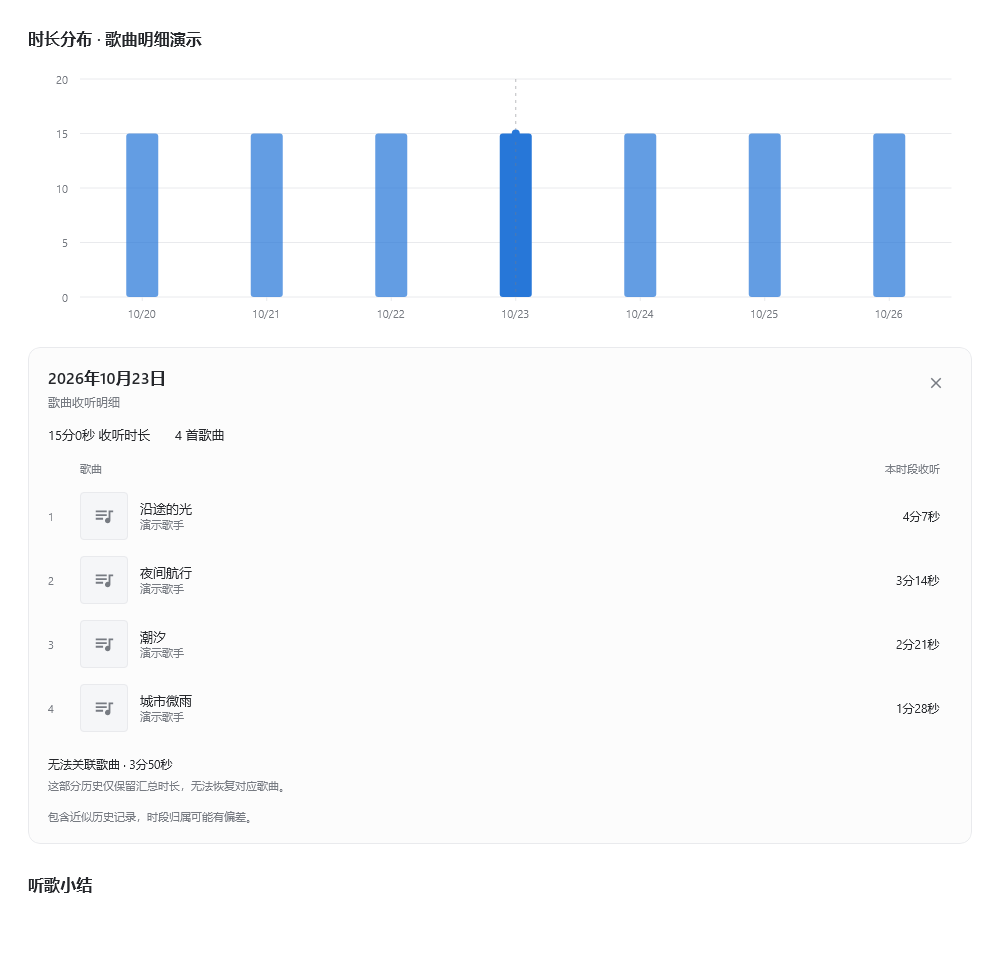
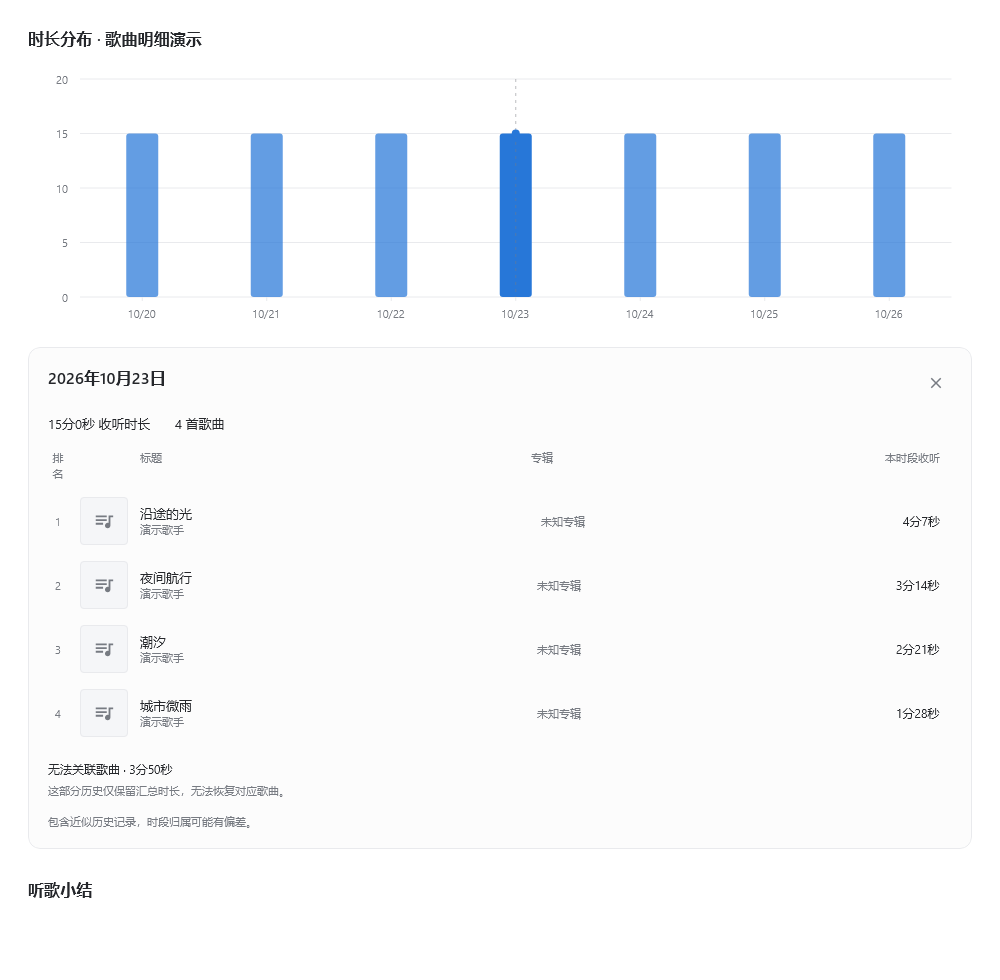
Align detail headers and hourly chart endpoints

diff --git a/plugin/src/main/kotlin/com/jethuit/spw/listenstats/ui/ListeningDetailsPanel.kt b/plugin/src/main/kotlin/com/jethuit/spw/listenstats/ui/ListeningDetailsPanel.kt
@@ -86,11 +86,13 @@ fun ListeningDetailsPanel(bucket: ChartBucket, details: ListeningDetails?, visib
                 current.rows.isNotEmpty() -> {
                     Row(Modifier.fillMaxWidth().padding(bottom = 8.dp, end = 12.dp),
                         horizontalArrangement = Arrangement.spacedBy(12.dp)) {
-                        Spacer(Modifier.width(20.dp))
+                        Text("排名", Modifier.width(20.dp), textAlign = androidx.compose.ui.text.style.TextAlign.Center,
+                            style = AppType.tiny.copy(color = colors.muted))
                         Spacer(Modifier.width(48.dp))
                         Text("标题", Modifier.weight(1f), style = AppType.tiny.copy(color = colors.muted))
                         Text("专辑", Modifier.weight(0.9f), style = AppType.tiny.copy(color = colors.muted))
-                        Text("本时段收听", style = AppType.tiny.copy(color = colors.muted))
+                        Text("本时段收听", textAlign = androidx.compose.ui.text.style.TextAlign.End,
+                            style = AppType.tiny.copy(color = colors.muted))
                     }
                     key(shown.start, shown.end, shown.hour) {
                         val scroll = rememberLazyListState()
@@ -99,7 +101,9 @@ fun ListeningDetailsPanel(bucket: ChartBucket, details: ListeningDetails?, visib
                                 itemsIndexed(current.rows, key = { _, row -> row.track.id }) { index, row ->
                                     Row(Modifier.fillMaxWidth().height(64.dp), verticalAlignment = Alignment.CenterVertically,
                                         horizontalArrangement = Arrangement.spacedBy(12.dp)) {
-                                        Text("${index + 1}", Modifier.width(20.dp), style = AppType.tiny.copy(color = colors.muted))
+                                        Text("${index + 1}", Modifier.width(20.dp),
+                                            textAlign = androidx.compose.ui.text.style.TextAlign.Center,
+                                            style = AppType.tiny.copy(color = colors.muted))
                                         Cover(row.track.id)
                                         Column(Modifier.weight(1f)) {
                                             Text(row.track.title, maxLines = 1, overflow = TextOverflow.Ellipsis,

diff --git a/plugin/src/main/kotlin/com/jethuit/spw/listenstats/ui/TrendChart.kt b/plugin/src/main/kotlin/com/jethuit/spw/listenstats/ui/TrendChart.kt
@@ -97,7 +97,11 @@ fun TrendChart(
         val plotWidth = (widthPx - AXIS_LEFT - AXIS_RIGHT).coerceAtLeast(1f)
         val plotHeight = (heightPx - AXIS_TOP - AXIS_BOTTOM).coerceAtLeast(1f)
         val slot = if (buckets.isEmpty()) plotWidth else plotWidth / buckets.size
-        val banded = hourly || chartType == ChartType.Bar
+        // Bars represent intervals and stay centered in their slots. Lines and
+        // curves use their actual sample positions, so hourly 00:00 and 23:00
+        // land on the plot edges just like the daily chart's first and last
+        // points.
+        val banded = chartType == ChartType.Bar
         val tickCount = 4
 
         fun xAt(index: Int): Float {

diff --git a/tools/build_plugin.py b/tools/build_plugin.py
@@ -27,7 +27,7 @@ TOOLS = BUILD / 'tools'
 PLUGIN_SRC = ROOT / 'plugin' / 'src' / 'main' / 'kotlin'
 RESOURCES = ROOT / 'plugin' / 'src' / 'main' / 'resources'
 PLUGIN_ID = 'com.jethuit.spw.listenstats'
-PLUGIN_VERSION = '0.3.0'
+PLUGIN_VERSION = '0.3.1-dev.1'
 PLUGIN_NAME = '听歌统计'
 PACKAGE_FILENAME = f'SPW-Stats-v{PLUGIN_VERSION}.spmod'
 PLUGIN_CLASS = 'com.jethuit.spw.listenstats.MainPlugin'

diff --git a/docs/REQUIREMENTS.md b/docs/REQUIREMENTS.md
@@ -89,7 +89,7 @@
 - 日期与粒度智能联动：单日固定显示 24 个小时区间；2～13 天固定按日；14 天及以上才显示“按日 / 按周”下拉。短范围自动选择不能覆盖长范围的粒度偏好。
 - 周汇总沿用预览：从当前日期范围起点起，每七天一组，末组可不足七天；不要默默改成自然周。
 - 所有横轴标签都居中对齐到对应柱子或数据点，首尾预留空间，窄屏减少标签。小时标签表示区间起点：00:00 对应 00:00–01:00，23:00 对应 23:00–24:00。小时折线、平滑曲线在首末真实数据点处结束，取消两端补出的水平延长线，左右各保留半个区间空白；填充在首末数据点处向下闭合，不描画闭合竖边。保持现有线条端头样式，不新增圆头或常驻端点标记；数据点、标签与悬停标记仍保持区间中心坐标。稀疏标签之间的距离与真实时间跨度成比例。
-- 纵轴按数据选择小时或分钟，刻度避免重复或错位。缩放后鼠标位置要正确转换，提示、柱子、曲线、标记使用同一坐标。点击时段只保留一根竖向标记线和一个圆点，不绘制整段蓝色选中背景；改点或切换图表类型时，旧时段的标记立即清理。
+- 纵轴按数据选择小时或分钟，刻度避免重复或错位。缩放后鼠标位置要正确转换，提示、柱子、曲线、标记使用同一坐标。按小时显示折线或曲线时，00:00 和 23:00 位于绘图区左右边缘；柱状图仍以小时区间中心绘制。点击时段只保留一根竖向标记线和一个圆点，不绘制整段蓝色选中背景；改点或切换图表类型时，旧时段的标记立即清理。
 - 按日与按周有平均时长横虚线，平均值标在左侧纵轴，包含零收听时段；相邻普通刻度让位避免重叠。**单日按小时隐藏平均线**。
 - 不显示图下重复日期范围、“悬停查看详情”，也不保留“查看图表数据”及其表格。
 - 图表横轴下方、明细卡片上方增加左对齐的灰色小字：“点击柱子或曲线查看歌曲明细，再次点击收起”，与图表间隔 12dp，跟随浅深主题；默认开启，明细展开或收起时均保留提示；可通过“显示明细操作提示”关闭，关闭后仍可点击查看和收起明细。
@@ -97,6 +97,7 @@
 ### 歌曲收听明细
 
 - 2026-10-23 确认先实现歌曲明细，使用图表下方的局部展开卡片。点击柱子、折线或曲线对应时段后展开，300ms 高度展开＋淡入，推开下方听歌小结；关闭按钮或卡片／图表内按 Esc 收起；鼠标点击图表后获得键盘焦点，可直接按 Esc 收起或用左右键、回车选择时段。关闭“页面动画”后直接展开／收起。
+- 2026-10-24：歌曲明细表头与排行表统一为“排名、标题、专辑、本时段收听”，排名居中，标题与专辑左对齐，收听时长右对齐。
 - 卡片显示完整日期或时段、该时段总收听时长、可关联歌曲数量，以及封面、歌曲名、歌手和本时段收听时长；按收听时长降序。歌曲过多时在卡片内滚动，默认最多六行可见，可在配置中设置为3～12行，超出部分在卡片内滚动。
 - 选中时段在图表中保持标记；再次点击当前柱子或曲线时段收起明细，读取中重复点击同一时段也取消请求。图表可用左右键选择、回车或空格打开／收起。点击其他时段直接更新卡片；普通数据刷新保留所选时段和展开状态，不重播展开动画。更换日期范围或聚合粒度后收起明细。
 - 使用已合并事件的实际片段，跨小时、跨日只累计落入所选时段的部分，按周只覆盖该组实际起止日。同一歌曲按身份合并展示；不从累计次数推断时段次数，也不增加本时段播放次数。

diff --git a/plugin/README.md b/plugin/README.md
@@ -1,6 +1,6 @@
 # 听歌统计模组源码
 
-Kotlin / Compose / Salt UI 实现，当前源码版本为 v0.2.6-dev.12，基于 SPW 1.19.2 构建，采用运行时结构发现接入宿主。安装与功能介绍见[项目首页](../README.md)，产品规则见[需求](../docs/REQUIREMENTS.md)，依赖与许可证见[第三方组件](../docs/THIRD-PARTY.md)。
+Kotlin / Compose / Salt UI 实现，当前源码版本为 v0.3.1-dev.1，基于 SPW 1.19.2 构建，采用运行时结构发现接入宿主。安装与功能介绍见[项目首页](../README.md)，产品规则见[需求](../docs/REQUIREMENTS.md)，依赖与许可证见[第三方组件](../docs/THIRD-PARTY.md)。
 
 ## 目录
 
@@ -20,7 +20,7 @@ py -3.12 tools/prepare_toolchain.py --spw-dir "E:\SteamLibrary\steamapps\common\
 py -3.12 tools/build_plugin.py --spw-dir "E:\SteamLibrary\steamapps\common\Salt Player for Windows"
 ```
 
-构建使用 JDK 25、缓存的 Kotlin 编译器、SaltUI 及对应宿主 jar。每次构建比较安装目录与缓存宿主文件的内容，更新后自动刷新缓存，避免相同文件大小的宿主更新被漏过。工具链缓存位于 `build/tools/`，不提交 Git。版本号以 `tools/build_plugin.py` 的 `PLUGIN_VERSION` 为准；当前开发包为 `0.2.6-dev.12`，正式版 `0.2.5` 保持不变；安装包输出到 `build/libs/SPW-Stats-v<版本>.spmod`，解包目录为 `build/install/spw-listen-stats/`。
+构建使用 JDK 25、缓存的 Kotlin 编译器、SaltUI 及对应宿主 jar。每次构建比较安装目录与缓存宿主文件的内容，更新后自动刷新缓存，避免相同文件大小的宿主更新被漏过。工具链缓存位于 `build/tools/`，不提交 Git。版本号以 `tools/build_plugin.py` 的 `PLUGIN_VERSION` 为准；当前开发包为 `0.3.1-dev.1`，正式版 `0.3.0` 保持不变；安装包输出到 `build/libs/SPW-Stats-v<版本>.spmod`，解包目录为 `build/install/spw-listen-stats/`。
 
 宿主随附的 Kotlin 模块信息缺少部分 Compose 顶层函数索引。构建通过 `tools/RestoreComposeIndex.java` 从当前宿主类的 Kotlin 注解重建运行时包及明细所需的点击、焦点、惰性列表和滚动条编译索引，输出 `build/tools/spw-compose-compile-index.jar`；不需要旧宿主，也不修改安装文件。该文件只用于编译，不进入 `.spmod`，运行时仍使用宿主 Compose 类。
 
